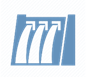
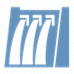
Container with panel fixed

diff --git a/static/my_js/panel_icon.js b/static/my_js/panel_icon.js
@@ -40,26 +40,33 @@ function draw_panel(to_plot, data_panel) {
     let container = gallery.selectAll('.container_panel')
         .data(data_panel, function(d) { return d.id; });
 
-    let cell = container.enter().append('svg')
+    let cell = container.enter().append('div')
         .attr('class', 'container_panel')
-        .attr('height', cell_height);
+        .attr('height', cell_height)
+        .attr('width', w_panel);
 
     // adding icons:
     let icons = cell.append('div')
-        .attr("class", "icon")
-        .attr('height', cell_height)
-        .attr('width', icon_width);
+        .attr("class", "rs_icon")
+        .attr('height', cell_height);
 
     // adding panel display
-    let val_cell = cell.append('rect')
-        .attr("height", cell_height)
-        .attr("width", w_panel - icon_width )
-        .attr("transform", "translate(" + icon_width + "," + 0 + ")");
+    let val_cell = cell.append('div')
+        .attr("class", "col-sm-8")
+        .append('svg')
+        .attr('height', cell_height)
+        .attr('width', w_panel - icon_width - 10)
+        .append('rect')
+        .attr('height', cell_height)
+        .attr('width', w_panel - icon_width - 10);
 
     icons.append('img')
-    .attr('class', 'picture')
-    .attr('src', function(d) { return d.icon; });
+        .attr('class', 'img')
+        .style("height", cell_height + "px")
+        .attr('src', function(d) { return d.icon; });
 
+
+    //container.exit().remove();
 
     /*
     indv_container.append('svg')

diff --git a/templates/pages/ds_demanda.html b/templates/pages/ds_demanda.html
@@ -3,12 +3,12 @@
 
         <div class="col-lg-5 rs_height_100" >
             <div id="chart_1">
-                <img data-src="holder.js/100%x550/white/text:#chart_1">
+                <img data-src="holder.js/100%x480/white/text:#chart_1">
             </div>
         </div>
         <div class="col-lg-7 rs_height_100">
             <div id="chart_2">
-                <img data-src="holder.js/100%x550/white/text:#chart_2">
+                <img data-src="holder.js/100%x480/white/text:#chart_2">
             </div>
         </div>
 
@@ -20,7 +20,8 @@
     let data_panel = [
         {'id': 0, 'tag': 'tag1', 'label': 'Generación', 'icon': 'static/my_icons/electrical/foco.png'},
         {'id': 1, 'tag': 'tag2', 'label': 'Hidro', 'icon': 'static/my_icons/electrical/hidroelectrica.png'},
-        {'id': 2, 'tag': 'tag3', 'label': 'Hidro', 'icon': 'static/my_icons/electrical/hidroelectrica.png'}
+        {'id': 2, 'tag': 'tag3', 'label': 'Hidro', 'icon': 'static/my_icons/electrical/hidroelectrica.png'},
+        {'id': 3, 'tag': 'tag3', 'label': 'Hidro', 'icon': 'static/my_icons/electrical/torre.png'}
     ];
         draw_panel("#chart_1", data_panel)
     </script>

diff --git a/static/my_css/my_css.css b/static/my_css/my_css.css
@@ -8,6 +8,39 @@ div{
     width: 100%;
     height: 100%;
 }
+.rs_icon{
+    position: relative;
+    float: left;
+    width: 30%;
+    height: auto;
+}
+
+img {
+    max-width: 100%;
+    max-height: 100%;
+    height: 100%;
+    width: 100%;
+    object-fit: contain;
+    display:block;
+    margin: auto;
+    padding: 10px;
+}
+
+.portrait {
+    height: 80px;
+    width: 30px;
+}
+
+.landscape {
+    height: 30px;
+    width: 80px;
+}
+
+.square {
+    height: 75px;
+    width: 75px;
+}
+
 
 svg{
 

diff --git a/app.py b/app.py
@@ -75,4 +75,5 @@ def test_dashboard():
 
 
 if __name__ == '__main__':
-    app.run(host='10.30.2.45', port=5000)
+    # app.run(host='10.30.2.45', port=5000)
+    app.run()
